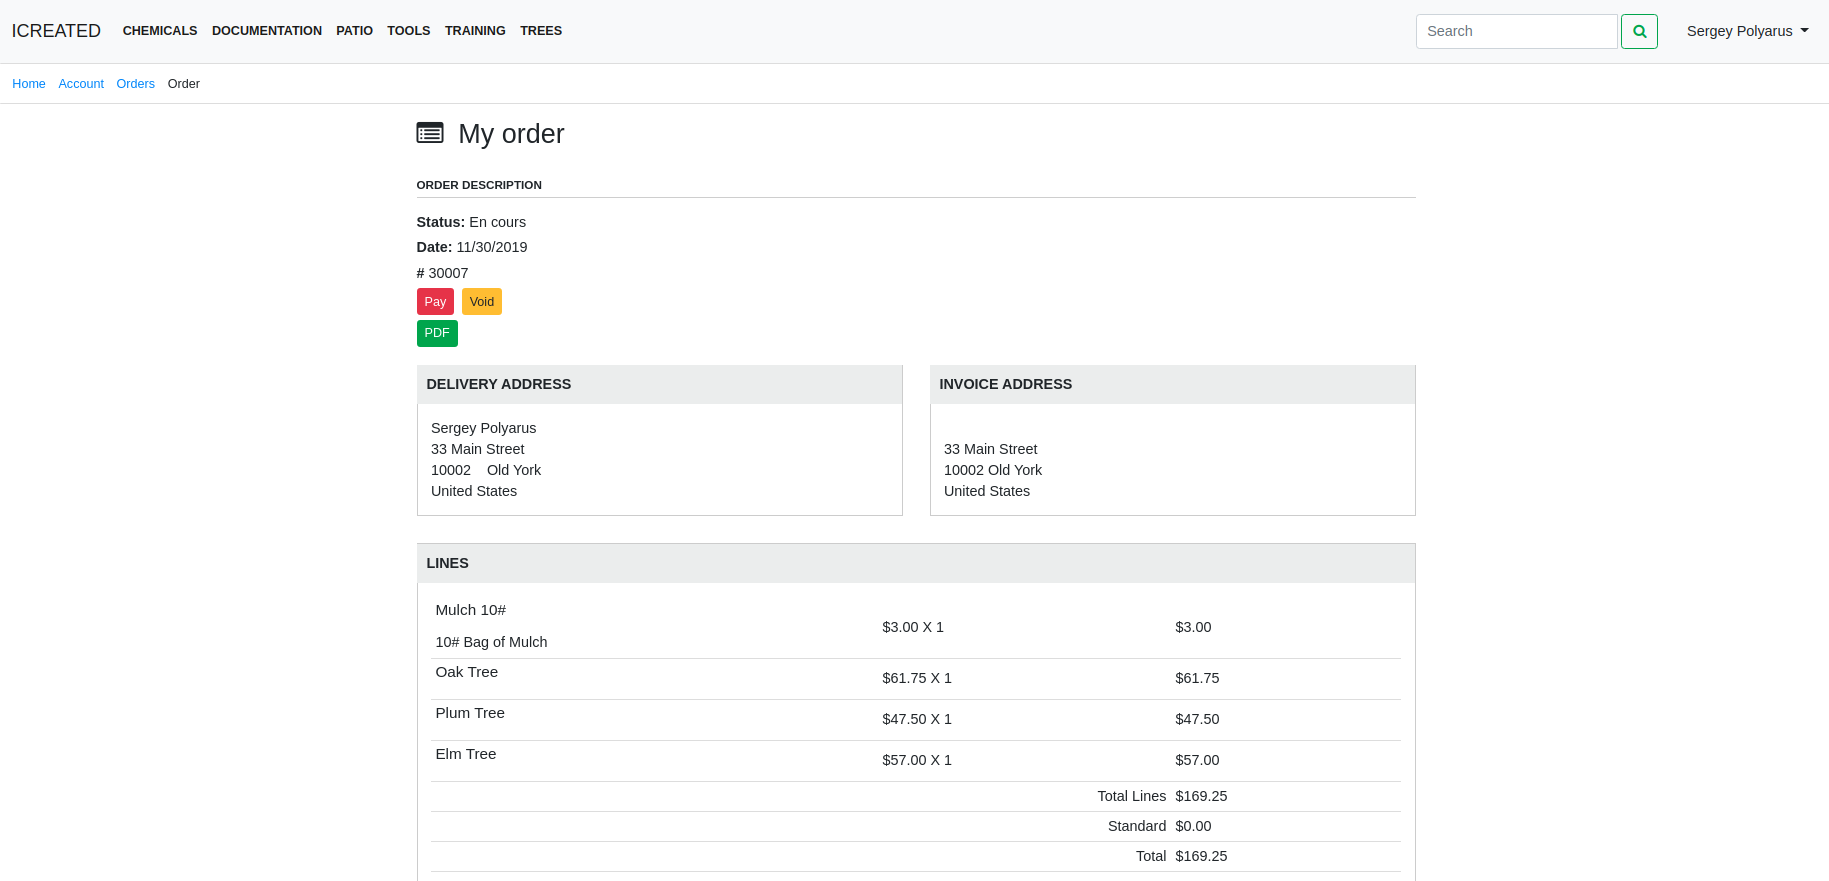
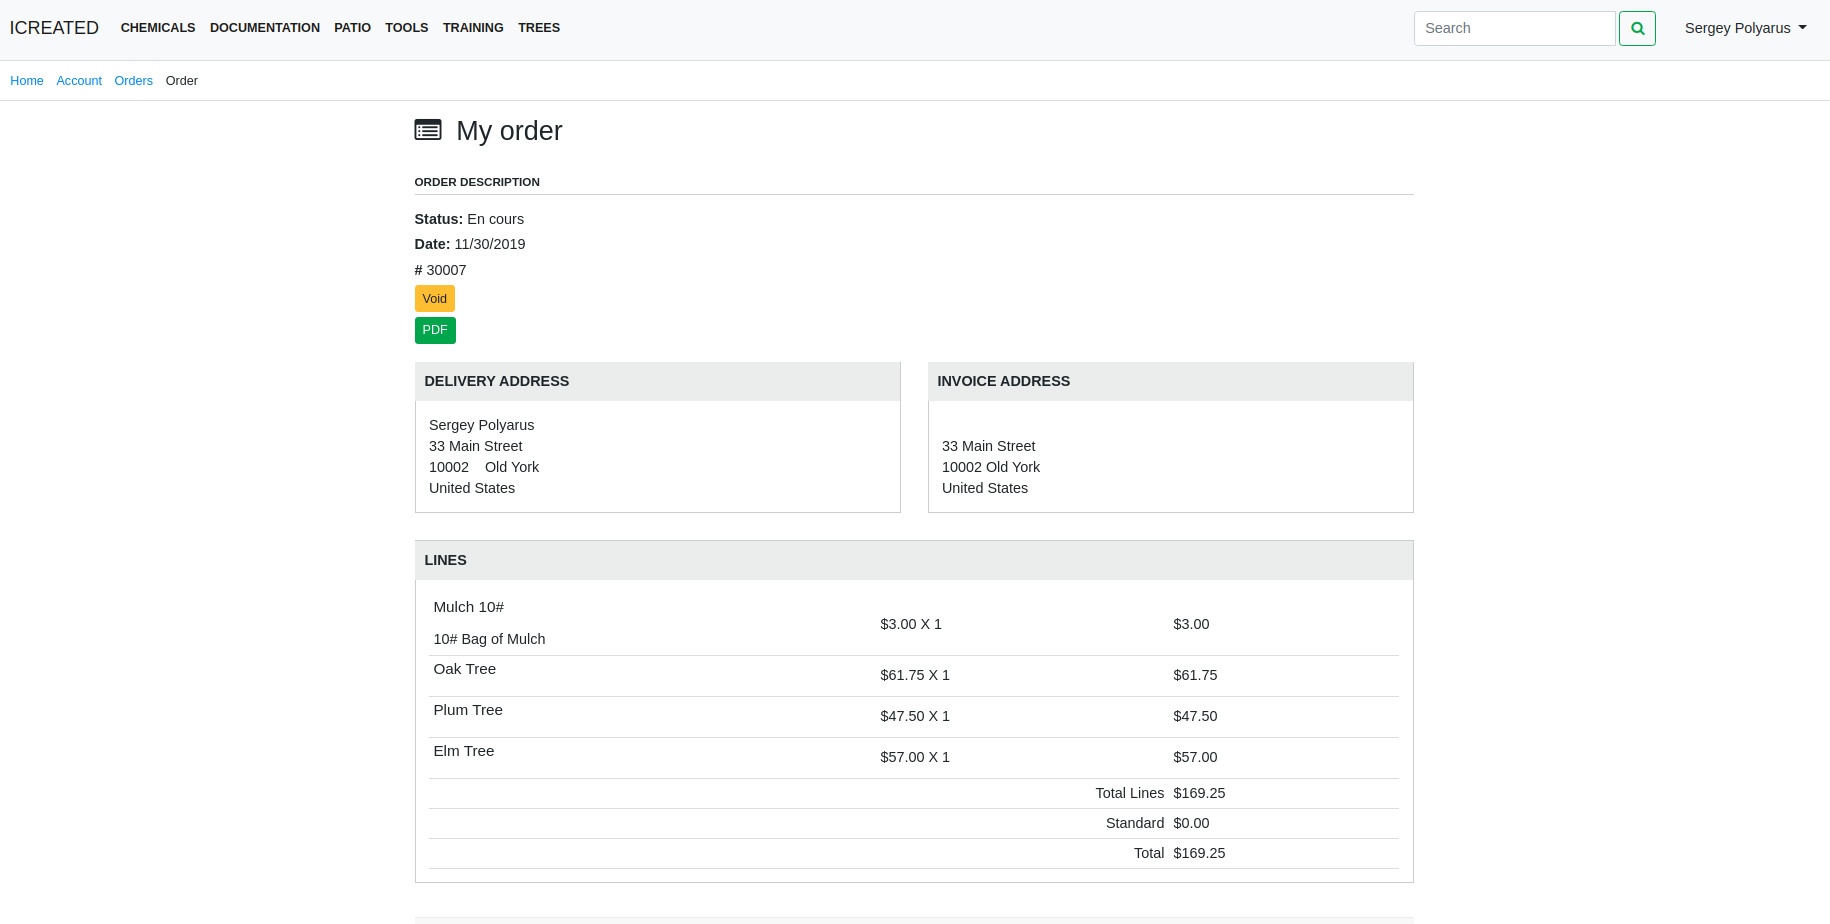
remove pay order

diff --git a/src/app/modules/account/orders/order.component.html b/src/app/modules/account/orders/order.component.html
@@ -26,8 +26,7 @@
                 <p><strong>Date: </strong> {{order.date | date:'MM/dd/yyyy'}}</p>
                 <p><strong># </strong> {{order.documentNo}}</p>
                 <p><strong>
-                  <button class="btn btn-sm btn-danger mr-2" *ngIf="order.docStatus == 'IP'" (click)="payOrder(order)">Pay</button>
-                  <button class="btn btn-sm btn-warning mr-2"*ngIf="order.docStatus == 'IP'" (click)="checkoutService.voidOrder(order)">Void</button>
+                  <button class="btn btn-sm btn-warning mr-2" *ngIf="order.docStatus == 'IP'" (click)="checkoutService.voidOrder(order)">Void</button>
                 </strong></p>
                 <p><strong>
                   <button class="btn btn-sm btn-success mr-2" (click)="downloadOrder()">PDF</button>

diff --git a/src/app/modules/account/orders/orders.component.html b/src/app/modules/account/orders/orders.component.html
@@ -37,10 +37,7 @@
                   <td><a [routerLink]="['/account/order', order.id]">{{order.grandTotal | currency}} €</a></td>
                   <td><a [routerLink]="['/account/order', order.id]">{{order.date | date: 'MM/dd/yyyy'}}</a></td>
                   <td data-value="3">
-
-                    <button *ngIf="order.docStatus == 'IP'" class="btn btn-sm btn-danger mr-2" (click)="checkoutService.payOrder(order)">Pay</button>
                     <button *ngIf="order.docStatus == 'IP'" class="btn btn-sm btn-warning mr-2" (click)="checkoutService.voidOrder(order)">Void</button>
-
                   </td>
                 </tr>
                 </tbody>

diff --git a/src/app/modules/account/orders/orders.component.ts b/src/app/modules/account/orders/orders.component.ts
@@ -26,24 +26,5 @@ export class OrdersComponent implements OnInit {
       );
   }
 
-/*
-  payOrder(order:Order) {
-
-    this.privateService.getOrder(order.id)
-      .subscribe(
-        data => {
-          this.checkoutService.orderSource.next(data);
-          this.checkoutService.order = data;
-          this.checkoutService.shipAddress = data.shipAddress;
-          this.checkoutService.billAddress = data.billAddress;
-          this.checkoutService.shipper = data.shipper;
-          this.router.navigate(['/checkout/checkout4']);
-        });
-
-  }
-*/
-
-
-
 
 }

diff --git a/src/app/modules/account/orders/order.component.ts b/src/app/modules/account/orders/order.component.ts
@@ -34,11 +34,6 @@ export class OrderComponent implements OnInit {
       });
   }
 
-  payOrder(order: Order) {
-
-    this.router.navigate(['/checkout/checkout4i', order.id]);
-  }
-
   downloadOrder() {
 
       this.fileService.downloadfile(this.order.id, 'order', this.order.documentNo);

diff --git a/README.md b/README.md
@@ -12,7 +12,8 @@ This applications shows standard web sites features:
 * basket management synchronized with server
 * order checkout
 * private customer area
-* order list
+* orders information
+* addresses management
 * password update
 * account information update
 
